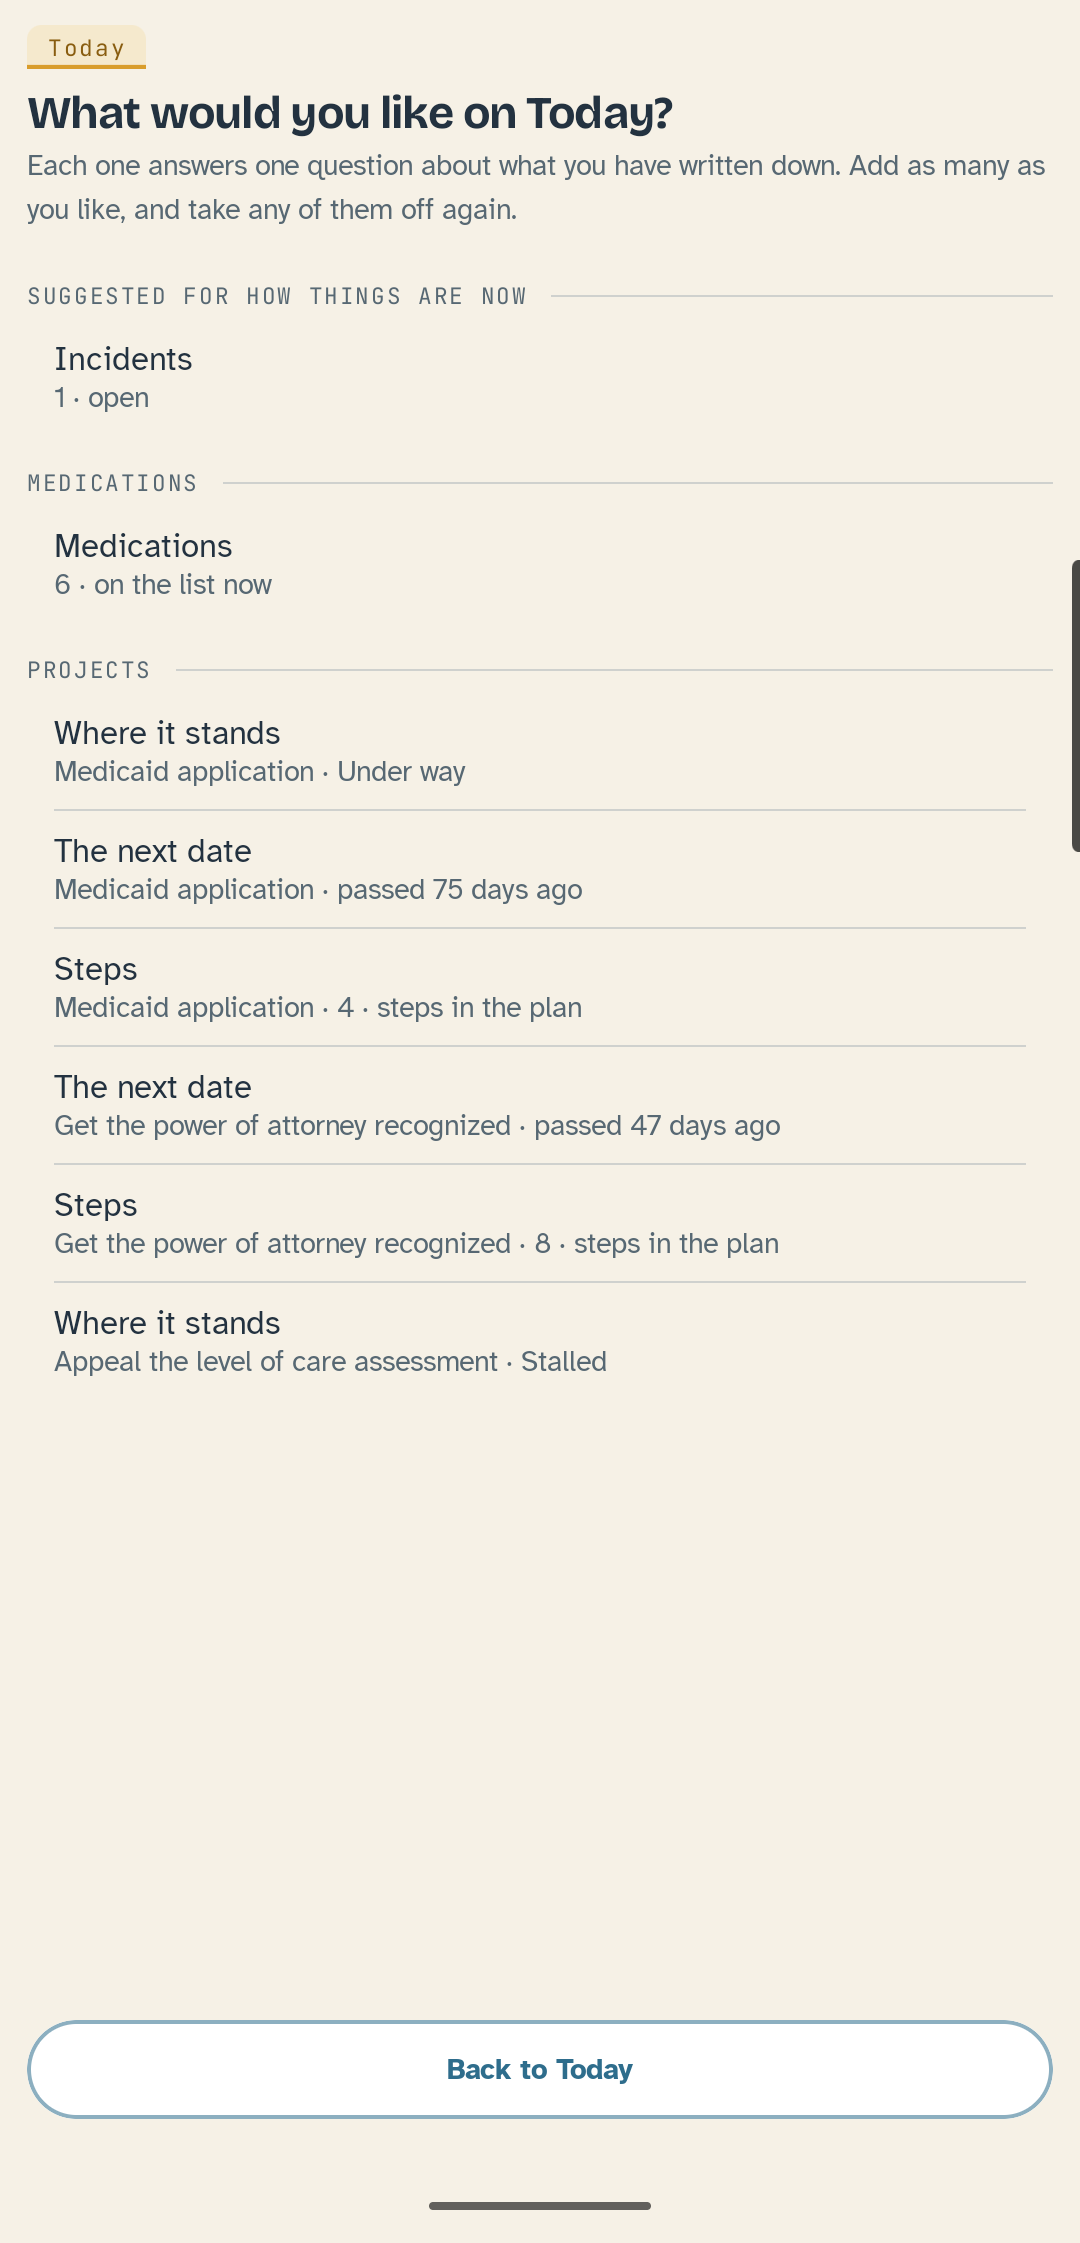
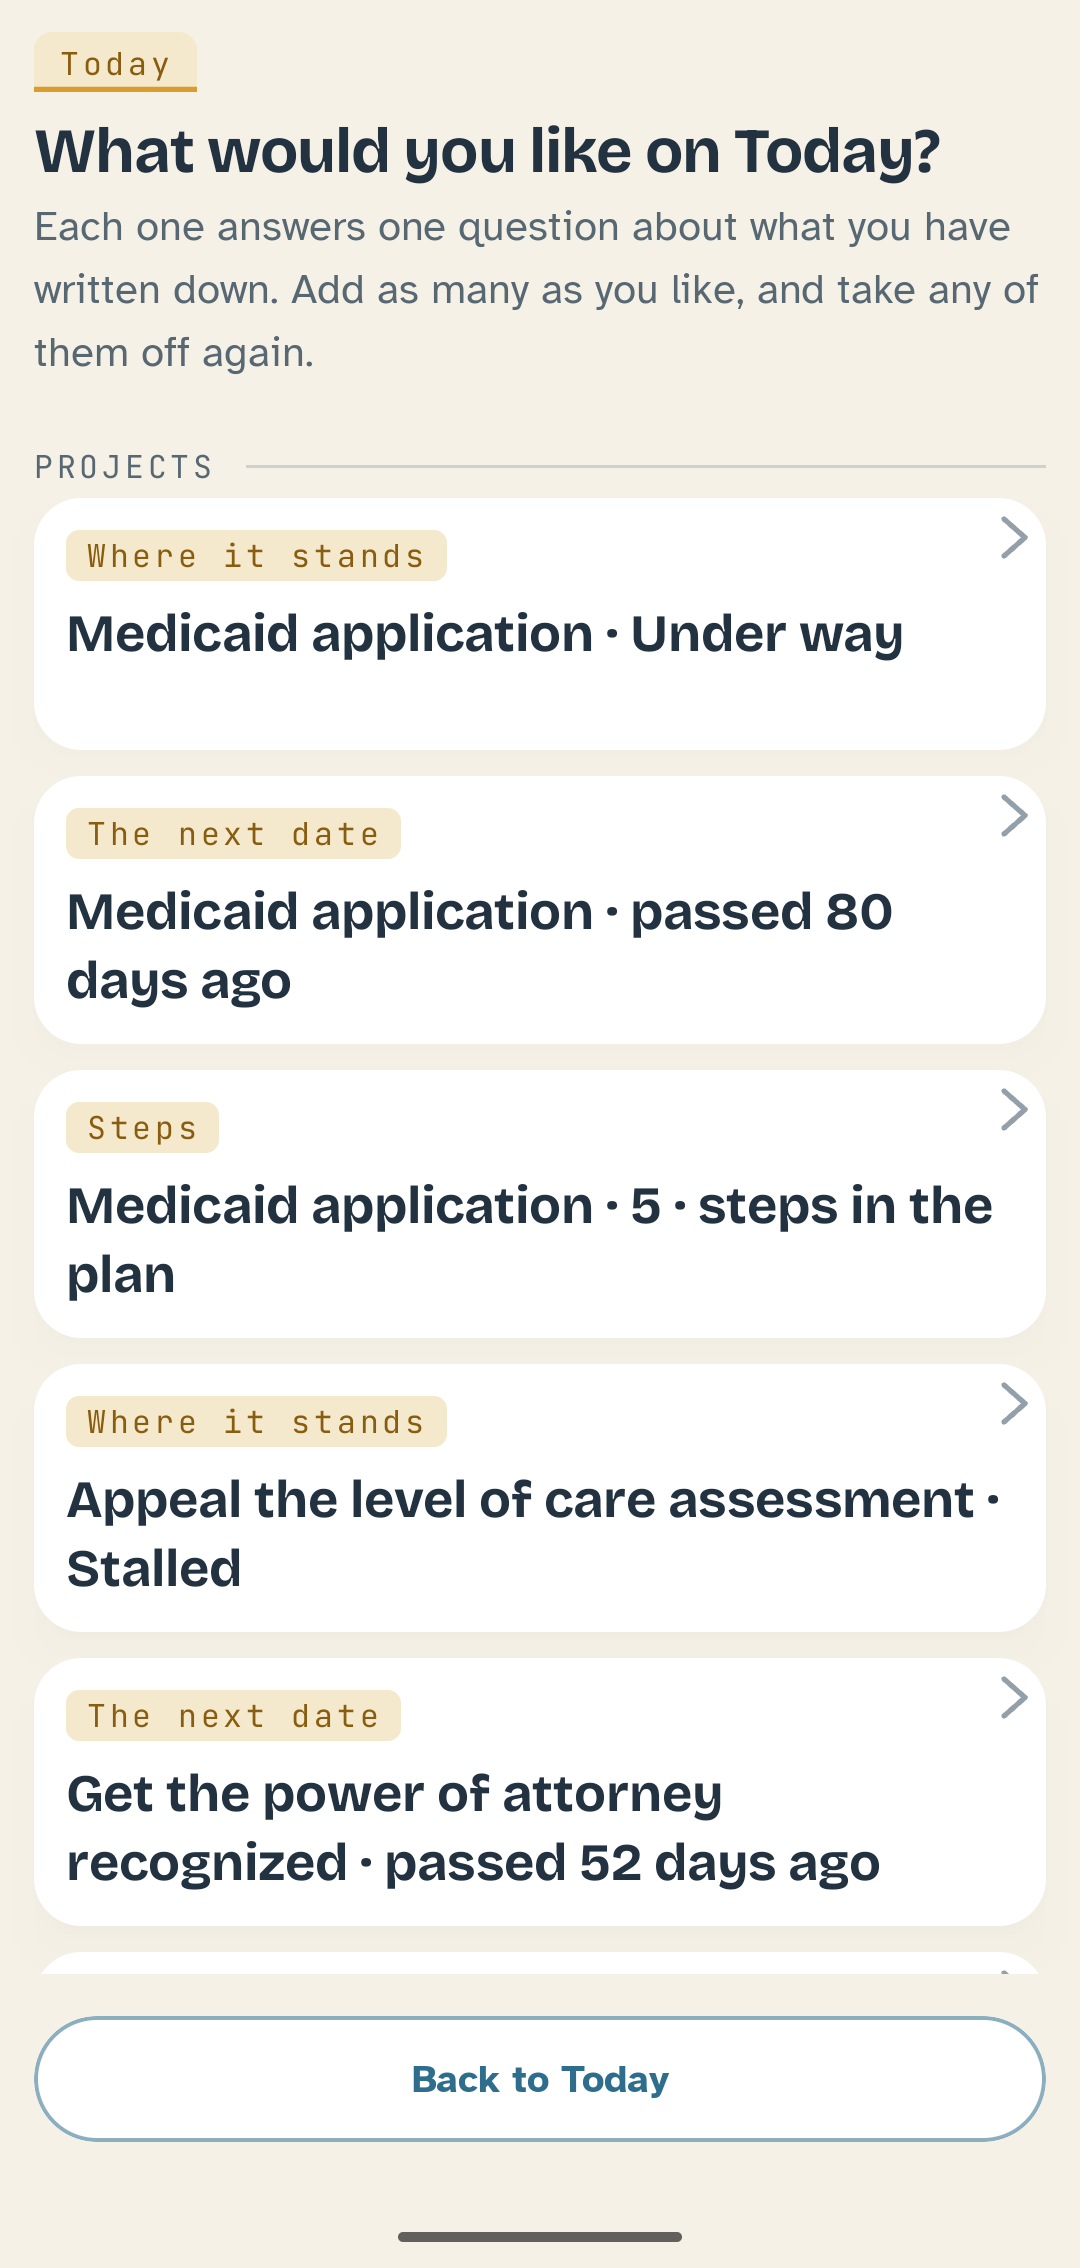
The gallery offers the card itself, not a line of type describing it
#376 item 4, the half that was left. Removing and rearranging cards
already mimicked the phone; adding one was still seventeen rows of words,
so choosing meant reading a description and picturing a card. The widget
picker on the phone somebody already owns shows the widget, and that is
the only frame of reference anybody brings here.

Each offer is now a real TodayCard wearing the hue and the shape it will
wear once it is on Today. What is chosen and what arrives are the same
object seen twice.

The tap adds rather than opens and the label says so. A preview labeled
"open" would promise a door that is not there, which is #231's inversion
in a new place.

D157 revises TodayCard's own "when not to use it", which said Today and
nowhere else. That rule exists because a card is something the person
chose to have and can remove, and wearing the shape where they cannot
would make a promise that is not true. In the gallery the promise is
exactly true: it is a card they are about to have and can take off again.
The component's doc says so rather than quietly contradicting itself.

hueForCard widened from private to internal, which is what a card being
offered needs to wear the hue it will have.

Looked at on the phone. HANDOFF and DESIGN say where the six stand.

Claude-Session: https://claude.ai/code/session_01EDVeq2bM3wBwGduzvLHqtA

diff --git a/android/app/src/main/kotlin/com/kamsiob/healthtrail/ui/screens/AddCardSheet.kt b/android/app/src/main/kotlin/com/kamsiob/healthtrail/ui/screens/AddCardSheet.kt
@@ -16,6 +16,8 @@ import com.kamsiob.healthtrail.ui.sectionForCard
 import com.kamsiob.healthtrail.i18n.Bidi
 import com.kamsiob.healthtrail.i18n.LocalStrings
 import com.kamsiob.healthtrail.i18n.Strings
+import com.kamsiob.healthtrail.ui.components.CardSize
+import com.kamsiob.healthtrail.ui.components.TodayCard
 import com.kamsiob.healthtrail.ui.components.DenseRow
 import com.kamsiob.healthtrail.ui.components.GroupHeader
 import com.kamsiob.healthtrail.ui.theme.HealthTrail
@@ -140,23 +142,46 @@ fun AddCardSheet(
             }
             items(group.size, key = { group[it].key }) { index ->
                 val offer = group[index]
-                DenseRow(
-                    title = Bidi.isolate(offer.label),
-                    subtitle = offer.preview,
+                // **The card itself, not a line of type describing it.** This
+                // was a list of names with a preview underneath, and choosing
+                // from it meant reading seventeen rows of words to picture
+                // seventeen cards. **The picker on the phone somebody already
+                // owns shows the widget**, which is the whole of the owner's
+                // note on #376: that is the only frame of reference anybody
+                // brings here.
+                //
+                // **It wears the hue and the shape it will wear on Today**, so
+                // what is chosen and what arrives are the same object seen
+                // twice rather than a description and a thing. D157.
+                TodayCard(
+                    tab = Bidi.isolate(offer.label),
+                    hue = hueForCard(offer.type),
+                    // **What a reader hears, composed here**, because the card
+                    // silences its own insides so it is one stop rather than
+                    // three. Same rule as on Today.
+                    description = Bidi.join(listOf(offer.label, offer.preview)),
+                    onOpen = { onAdd(offer) },
+                    // **A verb that says what the tap does**, and here it adds
+                    // rather than opens. A preview labeled "open" would promise
+                    // a door that is not there.
+                    openLabel = strings("today.add.this", "name" to offer.label),
+                    size = CardSize.WIDE,
+                    modifier = Modifier
+                        .padding(bottom = Space.cardGap)
+                        .testTag(AddCardTags.entry(offer.key)),
+                ) {
                     // **The preview wraps, because it is the thing being read
                     // to choose.** D105: a fixed cap is a cap at the smallest
                     // type size and a truncation at the largest, and at font
                     // scale 2.0 every row here ended mid-word with no ellipsis:
                     // "passed 75 days", "4 steps in the". The whole promise of
                     // this screen is that the answer is on it.
-                    subtitleMaxLines = Int.MAX_VALUE,
-                    // **A hairline between rows and none after the last**, which
-                    // is what makes a group read as a group rather than as a run
-                    // of rows that happens to have a word above it.
-                    divider = offer != group.last(),
-                    onClick = { onAdd(offer) },
-                    modifier = Modifier.testTag(AddCardTags.entry(offer.key)),
-                )
+                    Text(
+                        text = offer.preview.orEmpty(),
+                        style = type.displayS,
+                        color = colors.ink,
+                    )
+                }
             }
         }
 

diff --git a/android/app/src/main/kotlin/com/kamsiob/healthtrail/ui/components/TodayCard.kt b/android/app/src/main/kotlin/com/kamsiob/healthtrail/ui/components/TodayCard.kt
@@ -146,7 +146,14 @@ private fun Modifier.atLeastSquare(): Modifier = layout { measurable, constraint
  * its line and its chevron as four stops would make somebody listen to four
  * things to learn one. The caller composes the sentence.
  *
- * **When to use it.** On Today, and only there. It is the surface's unit.
+ * **When to use it.** On Today, and in the gallery that offers cards for Today.
+ * It is the surface's unit, and the gallery is where somebody picks one.
+ *
+ * **The gallery draws the real card rather than a line describing it**, D157,
+ * because that is what a widget picker does on the phone somebody already owns.
+ * That does not weaken the rule below: what is offered there is exactly a card
+ * they are about to have and will be able to remove, so the promise the shape
+ * makes is the one being kept.
  *
  * **When not to use it.** Anywhere else in the app. A card here is something
  * the person chose to have and can remove, and using the shape on a screen

diff --git a/android/app/src/main/kotlin/com/kamsiob/healthtrail/ui/screens/TodayFieldScreen.kt b/android/app/src/main/kotlin/com/kamsiob/healthtrail/ui/screens/TodayFieldScreen.kt
@@ -1952,7 +1952,10 @@ private fun answerParts(
  * answer says. Cards for whole-app surfaces wear gold.
  */
 @Composable
-private fun hueForCard(type: String): TabHue = when (type) {
+// **Internal rather than private since the gallery draws real cards.** A card
+// being offered wears the hue it will wear once it is on Today, which is the
+// whole point of previewing it as itself. D157.
+internal fun hueForCard(type: String): TabHue = when (type) {
     "next_up" -> hueFor(Repository.Section.APPOINTMENTS)
     "medications" -> hueFor(Repository.Section.MEDICATIONS)
     "ask_next_time" -> hueFor(Repository.Section.ASK_NEXT_TIME)

diff --git a/HANDOFF.md b/HANDOFF.md
@@ -39,15 +39,15 @@ Precedence: verified code > this file > `DECISIONS.md` > `contract/DATA-CONTRACT
 **#376** is the live list: the owner's direction of 2026-08-13, overnight, after using the build. **The acceptance criterion is a shippable app**, not a green run and not a correct screen. It names six failures and quotes him on all of them.
 
 1. The text is hard to read. **Done**, D154: the whole ladder lifted, body 14sp to 16.
-2. Today is hard to use.
-3. **A card is square or full width, and he had said so more than once.** Done, D153.
-4. Adding, removing and changing cards is not intuitive, animated, or friendly, and **must mimic the phone's own home screen**. Done: hold to arrange, carry the card itself, others move aside, back keeps it.
-5. **The projects overhaul has not happened.** Not started. #345 is the fidelity pass and is not the overhaul.
-6. **No data entry screen is boring or lazily designed.** Not started.
+2. Today is hard to use. **Mostly done** through 3 and 4, plus the clutter: the word "Options" off every card, the capture button standing down while arranging, Done given weight.
+3. **A card is square or full width, and he had said so more than once.** Done, D153, and the square fills itself.
+4. Adding, removing and changing cards **must mimic the phone's own home screen**. Done: hold to arrange, carry the card itself, others move aside, back keeps it, and **the gallery offers the real card rather than a line describing it** (D157).
+5. **The projects overhaul.** First pass done, D156: the road says its stage names and the subtitle counts your projects. **Not done: "+ Start" belongs at the top per the grid**, and it wants a decision because D137, D118 and the FAB clearance are behind where it is.
+6. **No data entry screen is boring or lazily designed.** **One of fourteen done**, `AddPersonScreen`. It asked five questions at one weight while D147 recorded it as converted.
 
-**1, 3 and 4 are built and were looked at on the phone**, at scale 1.0 and 2.0. **2 is partly done**: the sizes and the gesture are most of it, and what is left is the clutter inside arrange mode. **5 and 6 are not started and are the next work.**
+**Everything above was looked at on the phone**, not only tested. **5 and 6 are where the work is**: twelve project screens and thirteen forms have not been through this.
 
-**What the phone found and the tests could not.** The square was right and still wrong: the answer sat in the top third and two thirds was empty white, which is rule 11's blank area. The tab holds the top and the answer falls to the bottom now. **The chevron then landed in the middle of the card, and then in the wrong corner**, over two builds, because `align` says where a box goes and not how big it is. Neither was visible in the code.
+**What the phone found and no test would have.** The square was right and still wrong: the answer sat in the top third and two thirds was empty white, rule 11's blank area. **The chevron then landed in the middle of the card, and then in the wrong corner**, over two builds, because `align` says where a box goes and not how big it is. The capture button covered the words on the card beneath it at font scale 2.0. The word "Options" appeared on five cards at once. **A project's road was four dots on a dashed line**, which is a progress bar and is the one thing rule 13 rules out. **The gallery was seventeen rows of words** describing cards instead of showing them. None of that is visible in source and none of it fails a test.
 
 **Still owed on Today, and it is the owner's to weigh.** At font scale 2.0 the capture button covers the words under it: "Levothyroxine · 50 mcg, morn" runs under the FAB. The list has clearance at its end, so this is the button floating over mid content rather than a missing inset, and it predates the type lift. Moving the FAB or insetting every card is a decision rather than a repair.
 

diff --git a/DECISIONS.md b/DECISIONS.md
@@ -170,6 +170,7 @@ The BLOCKED section at the end lists anything only the owner can resolve, each w
 | D148 | The third version currency check, which D121 left enabled |
 | D148 | An event writer updates its parent's state in the same transaction |
 | D147 | A form asks one question at a time; correcting a record shows all of it at once |
+| D157 | The gallery offers the real card, not a line of type describing it |
 | D156 | A project's road says its stage names, and a card shows the one it is at |
 | D155 | A long press is allowed where it names the visible control that does the same thing |
 | D154 | The type ladder is lifted app wide, because the owner said the text is hard to read |
@@ -3004,6 +3005,24 @@ So the decision is a `// bidi-ok:` comment on the line, and the check reads it. 
 **That fix cost two wrong builds in the corner of the card**, and both are worth writing down because neither was visible in the source. A `Box` keeps its minimum constraints to itself, so the card measured square while the column inside it measured to its own text: passing the minimum down is what gives `SpaceBetween` a square to spread across. **But it passes to every child**, so the corner box then filled the card, and `align` says where a box goes rather than how big it is. The chevron landed on the tab in the opposite corner, and after the obvious repair it landed in the middle. The alignment belongs on `wrapContentSize`.
 
 **Revisit if.** The owner asks for a third size, or a card appears whose answer genuinely cannot be told at either.
+
+---
+
+### D157. The gallery offers the real card, not a line of type describing it
+
+**Date:** 2026-08-13, overnight. **Decided under rule 10**, working #376 item 4. **Revises `TodayCard`'s own "when not to use it"**, which said Today and nowhere else.
+
+**The decision.** `AddCardSheet` draws each offer as a `TodayCard` wearing the hue and the shape it will wear once it is on Today, rather than as a `DenseRow` with the card's name and a preview line under it.
+
+**The owner's words are the argument.** "It has to mimick the way it is on smartphones which is the only frame of reference a user knows." **The widget picker on the phone somebody already owns shows the widget.** The gallery was seventeen rows of words, and choosing from it meant reading a description and picturing a card.
+
+**Why this does not weaken the rule it revises.** `TodayCard`'s doc banned the shape everywhere but Today, because a card is something the person chose to have and can remove, and wearing that shape where they cannot would make a promise that is not true. **In the gallery the promise is exactly true**: what is drawn is a card they are about to have and will be able to take off again. It is the same object seen twice rather than a description and a thing.
+
+**The tap adds rather than opens**, and the label says so. A preview labeled "open" would promise a door that is not there, which is #231's inversion in a new place.
+
+**Rule 22 is satisfied rather than bent.** "Card only for three or more lines actually read" is about not making everything a card. Here the card *is* the thing being chosen, and drawing it as itself is the honest representation.
+
+**Revisit if.** The catalog grows past what a person will scroll as cards, in which case the answer is a shorter catalog rather than a return to rows: 21.5 already says the catalog is curated at roughly sixteen.
 
 ---
 
